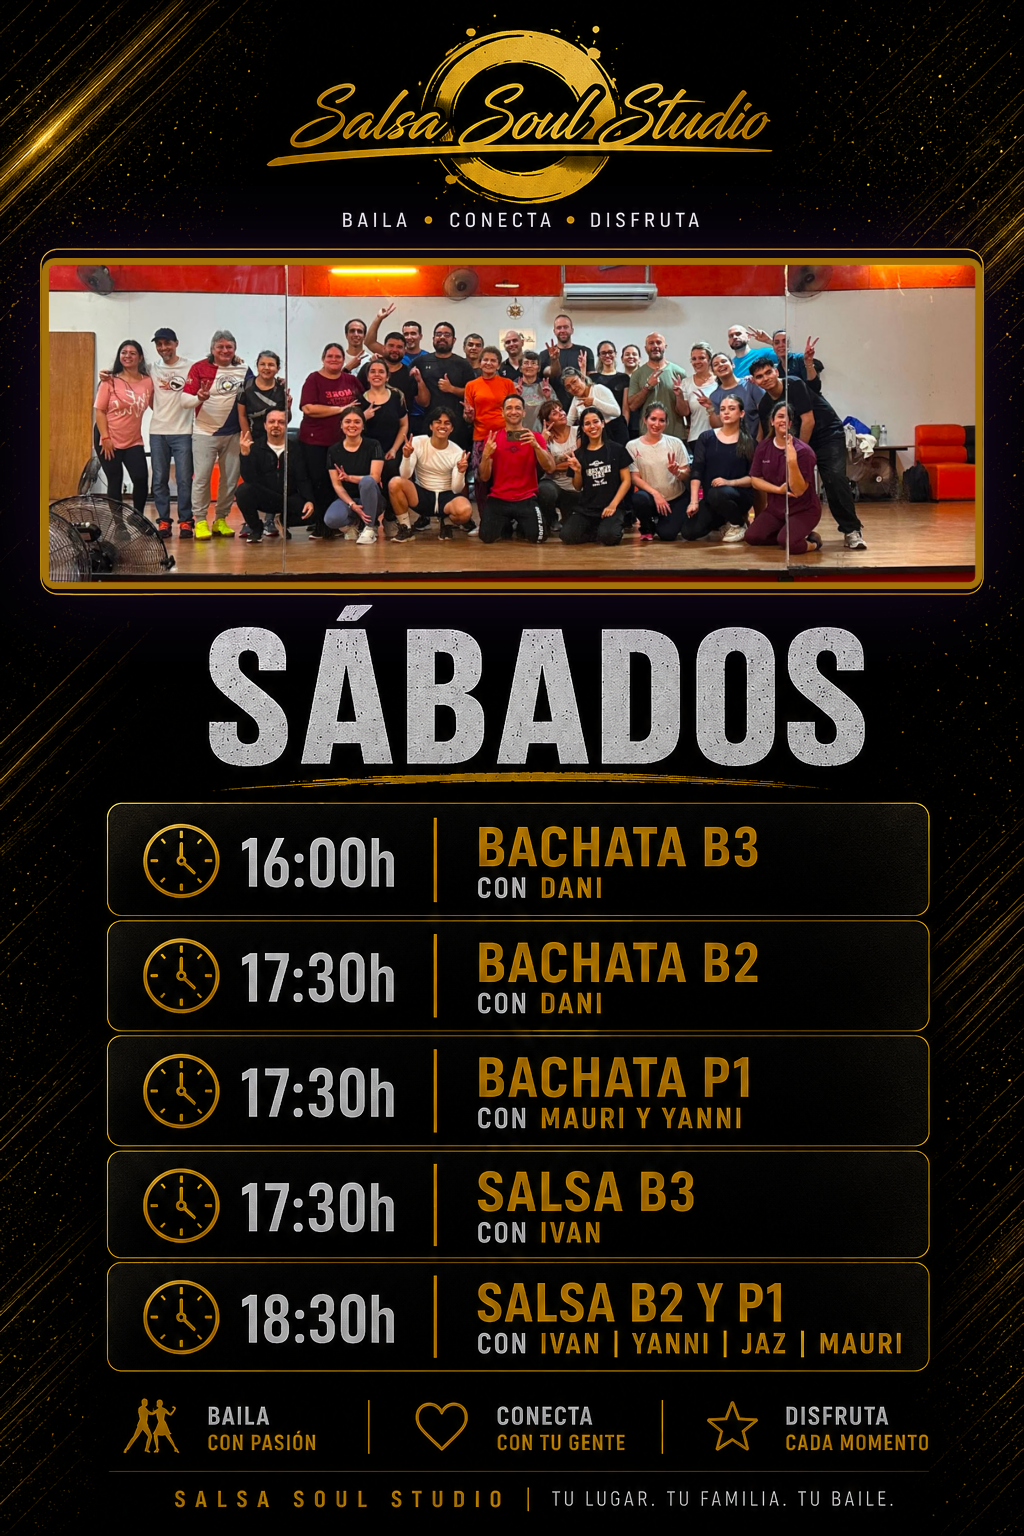
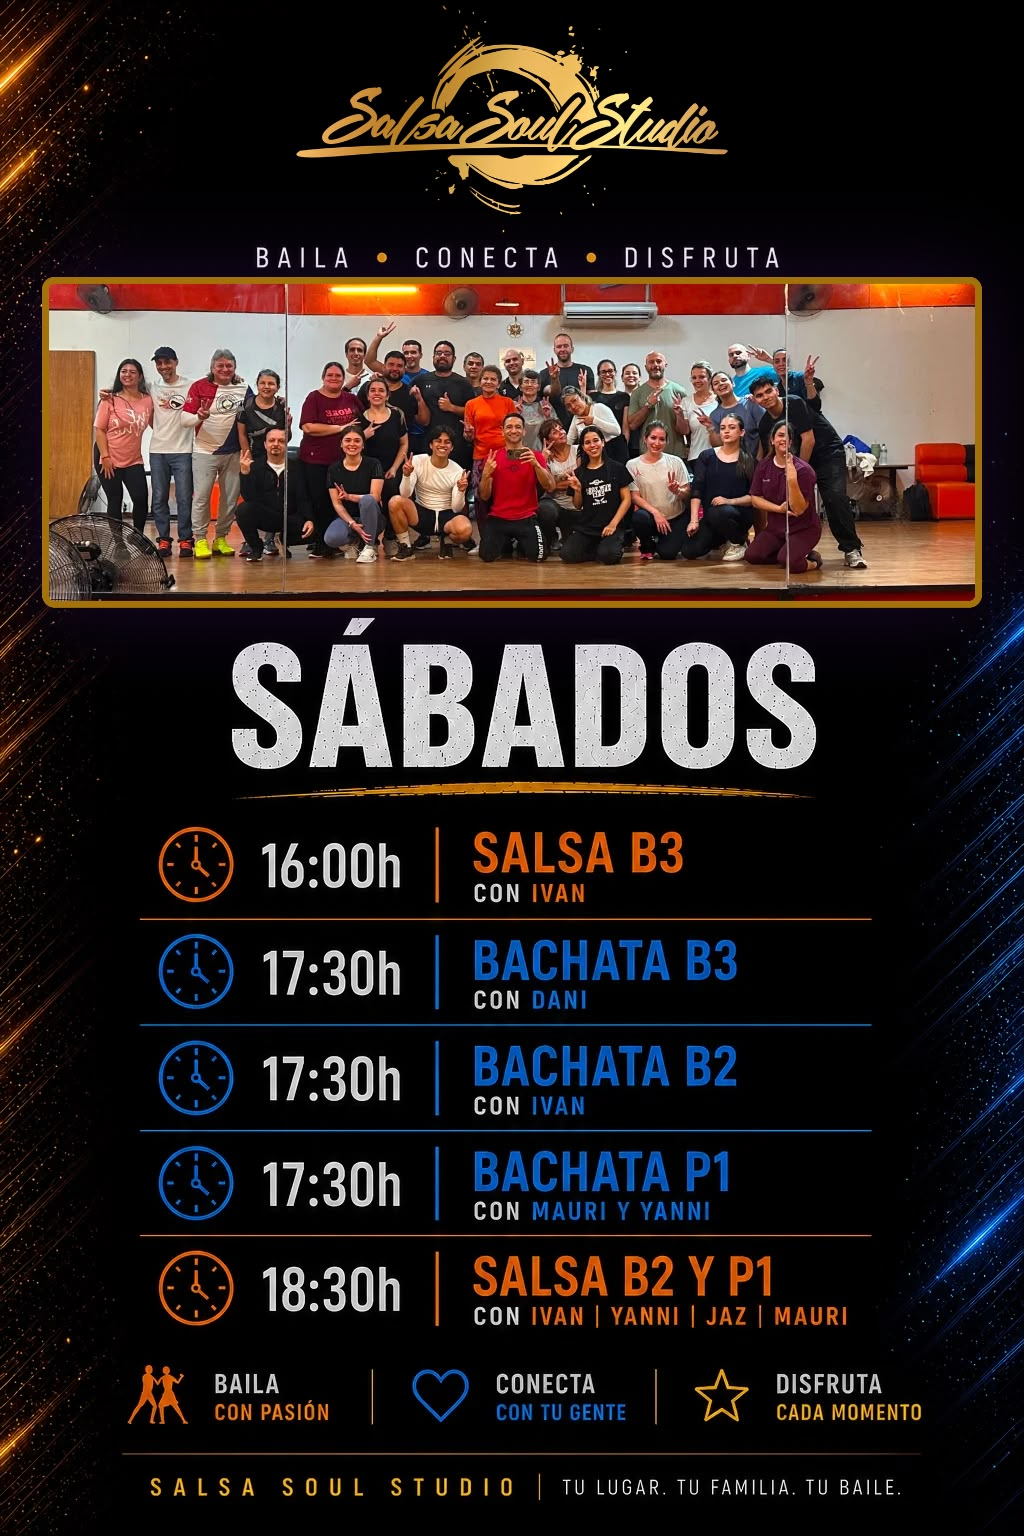
fix: invertir horario Básico 3 sábados (Salsa 16:00 / Bachata 17:30)
Antes 15:45 Bachata + 17:30 Salsa, ahora 16:00 Salsa + 17:30 Bachata.
Actualiza la tarjeta de Básico 3 y el afiche horarios-sabados.png.

diff --git a/index.html b/index.html
@@ -88,8 +88,8 @@
         <div class="schedule-item">
           <div class="day">Sábados</div>
           <div class="classes">
-            15:45h — Bachata<br>
-            17:30h — Salsa
+            16:00h — Salsa<br>
+            17:30h — Bachata
           </div>
         </div>
       </div>
